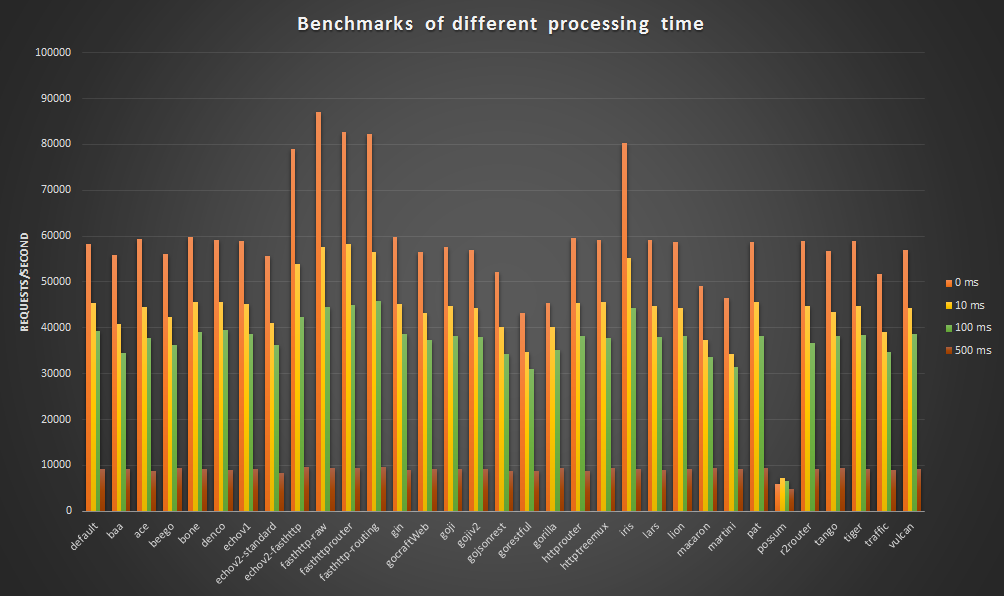
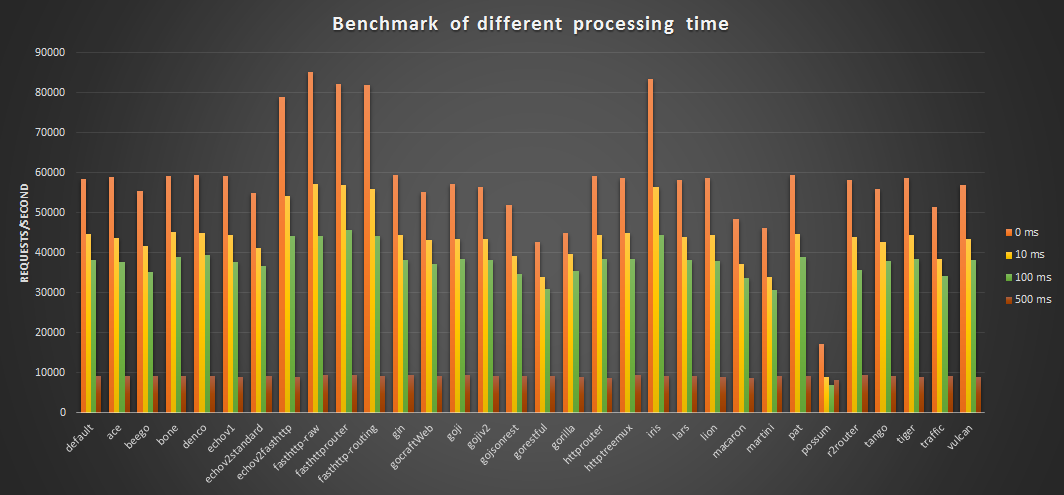
Site updated: 2016-04-13 13:39:31

diff --git a/2016/04/06/the-fastest-golang-web-framework/index.html b/2016/04/06/the-fastest-golang-web-framework/index.html
@@ -142,6 +142,7 @@
 
 <p>当我将实际业务的处理时间模拟为10毫秒的时候，使用100并发进行测试：<br><code>wrk -t16 -c100 -d30s http://127.0.0.1:8080/rest/hello</code>，Iris吞吐率才达到97 requests/second。详细介绍可以看我的文章： <a href="http://colobu.com/2016/04/01/Is-iris-the-fastest-golang-router-library/" target="_blank" rel="external">iris 真的是最快的Golang 路由框架吗? </a>。</p>
 <p>虽然Iris的作者很快做了修改，临时解决了这个问题，但是也促使我重新审视Julien Schmidt测试框架,也促使我实现了一个测试Go web framework benchmak的框架： <a href="https://github.com/smallnest/go-web-framework-benchmark" target="_blank" rel="external">Go web framework benchmark</a>。</p>
+<p><strong>2016/04/12 updated:</strong> 现在Iris已经改成了fasthttp实现，性能超级好。</p>
 <a id="more"></a>
 <h2 id="重新审视Julien_Schmidt测试框架">重新审视Julien Schmidt测试框架</h2>
 <p>如果查看Julien Schmidt测试框架的测试结果以及实现，可以看到他测试的只是web框架的<strong>路由功能</strong>，包括路径中参数的解析， 并不是测试一个完整的web框架的处理(接受连接、路由、Handler处理)。</p>
@@ -211,7 +212,7 @@
 <li>possum在测试的时候出现N多的<code>http: multiple response.WriteHeader calls</code>错误，它的性能比较低下。以下的测试possum也有问题。</li>
 <li>默认的go标准库的实现性能已经很高</li>
 <li>处理时间10ms和100ms， 各框架的性能差别不是特别巨大，但是500ms吞吐率下降的很厉害。</li>
-<li>基于fasthttp实现的路由器/web框架表现非常好,如fasthttprouter、fasthttp-routing, echo-fasthttp，但是echo-fasthttp由于要与net/http兼容，性能稍差一点。</li>
+<li>基于fasthttp实现的路由器/web框架表现非常好,如iris, fasthttprouter、fasthttp-routing, echo-fasthttp，但是echo-fasthttp由于要与net/http兼容，性能稍差一点。</li>
 </ol>
 <blockquote>
 <p>目前我并没有监控latency和cpu, memory指标，或许以后会加入。</p>

diff --git a/categories/Go/index.html b/categories/Go/index.html
@@ -137,6 +137,7 @@
 
 <p>当我将实际业务的处理时间模拟为10毫秒的时候，使用100并发进行测试：<br><code>wrk -t16 -c100 -d30s http://127.0.0.1:8080/rest/hello</code>，Iris吞吐率才达到97 requests/second。详细介绍可以看我的文章： <a href="http://colobu.com/2016/04/01/Is-iris-the-fastest-golang-router-library/" target="_blank" rel="external">iris 真的是最快的Golang 路由框架吗? </a>。</p>
 <p>虽然Iris的作者很快做了修改，临时解决了这个问题，但是也促使我重新审视Julien Schmidt测试框架,也促使我实现了一个测试Go web framework benchmak的框架： <a href="https://github.com/smallnest/go-web-framework-benchmark" target="_blank" rel="external">Go web framework benchmark</a>。</p>
+<p><strong>2016/04/12 updated:</strong> 现在Iris已经改成了fasthttp实现，性能超级好。</p>
 
         
           <p class="article-more-link">

diff --git a/index.html b/index.html
@@ -202,6 +202,7 @@
 
 <p>当我将实际业务的处理时间模拟为10毫秒的时候，使用100并发进行测试：<br><code>wrk -t16 -c100 -d30s http://127.0.0.1:8080/rest/hello</code>，Iris吞吐率才达到97 requests/second。详细介绍可以看我的文章： <a href="http://colobu.com/2016/04/01/Is-iris-the-fastest-golang-router-library/" target="_blank" rel="external">iris 真的是最快的Golang 路由框架吗? </a>。</p>
 <p>虽然Iris的作者很快做了修改，临时解决了这个问题，但是也促使我重新审视Julien Schmidt测试框架,也促使我实现了一个测试Go web framework benchmak的框架： <a href="https://github.com/smallnest/go-web-framework-benchmark" target="_blank" rel="external">Go web framework benchmark</a>。</p>
+<p><strong>2016/04/12 updated:</strong> 现在Iris已经改成了fasthttp实现，性能超级好。</p>
 
         
           <p class="article-more-link">
